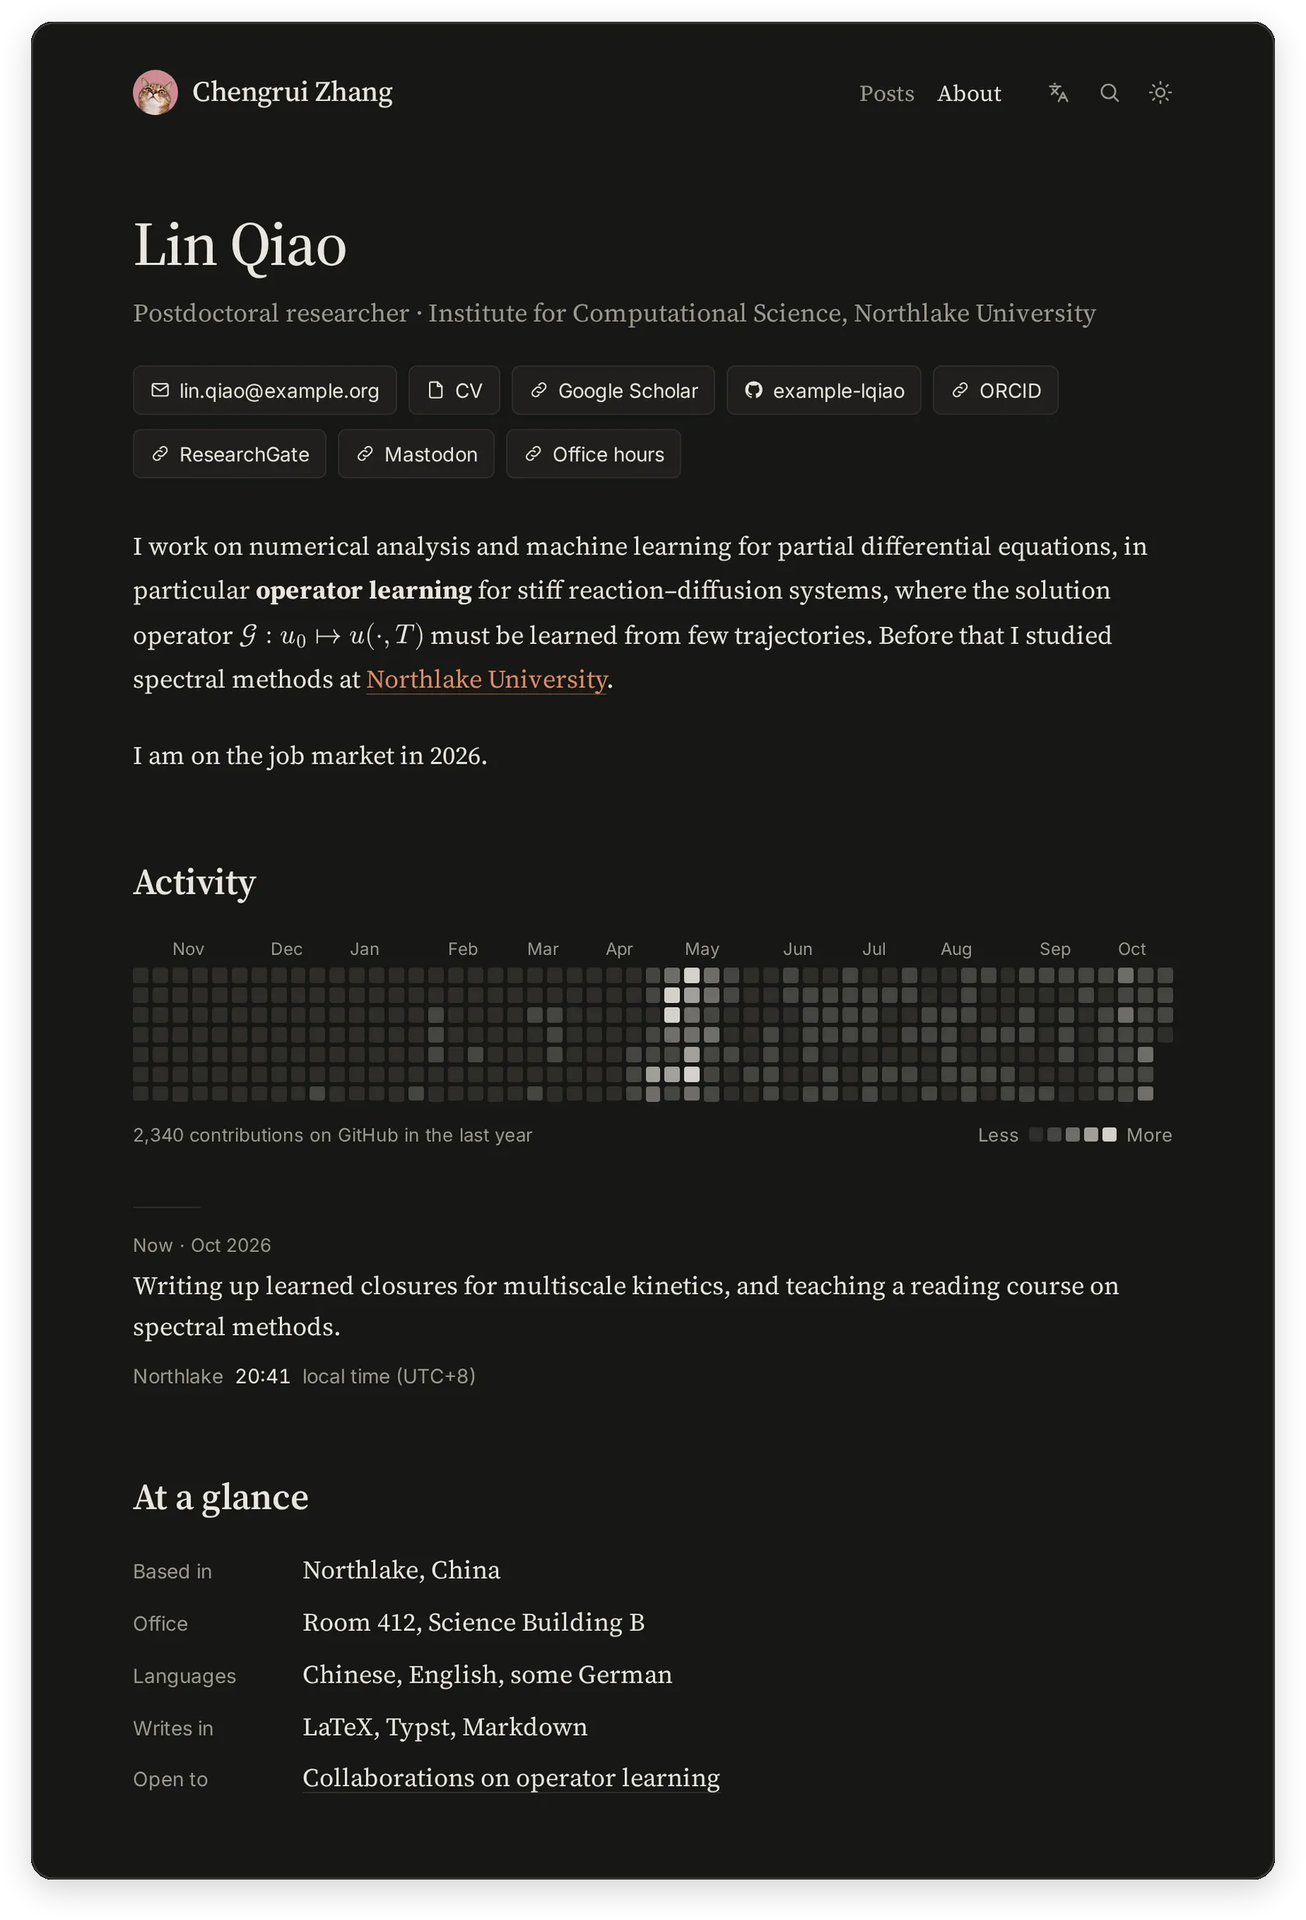
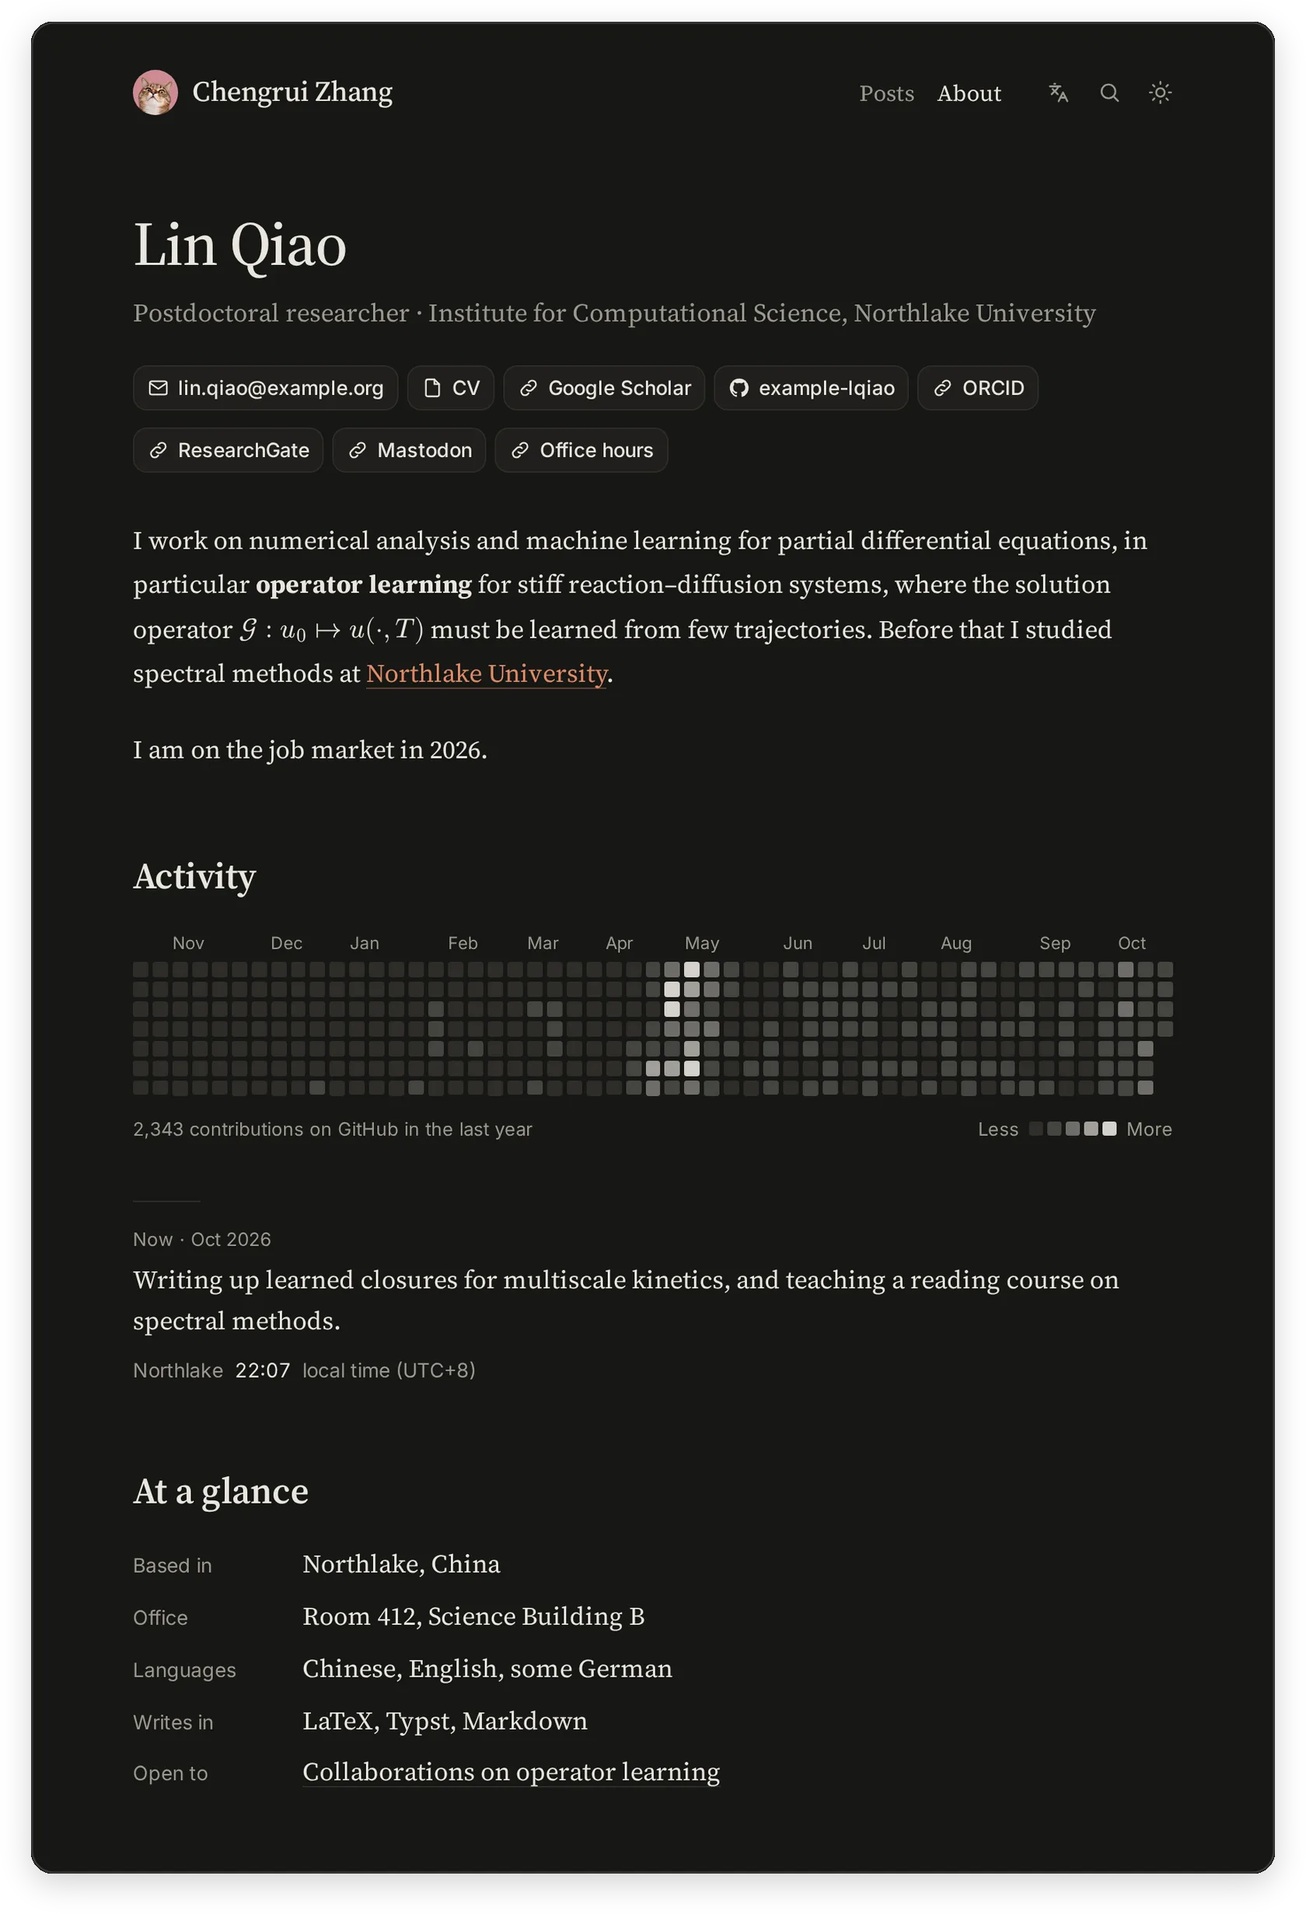
feat(about): restyle buttons, tags and projects after shadcn/ui
Contact links become secondary buttons, a stack's words badges, and
projects item panels with small buttons for the repository, its stars
(none shown for 0) and the site. A list in which no entry has a date
drops the empty date column.

diff --git a/src/styles/global.css b/src/styles/global.css
@@ -530,27 +530,29 @@ main:focus {
   color: var(--accent);
 }
 
-/* Contact links under the name: buttons on Vellum with an icon, then the
-   address, user name or label. */
+/* Contact links under the name: buttons on Vellum, as shadcn/ui's secondary
+   button, with an icon, then the address, user name or label. */
 .about-links {
   display: flex;
   flex-wrap: wrap;
-  gap: 0.625rem 0.5rem;
+  gap: 0.75rem 0.375rem;
   margin: 1.5rem 0 0;
   padding: 0;
   list-style: none;
   font-family: var(--font-sans);
   font-size: 0.875rem;
-  line-height: 1.5;
+  font-weight: 500;
+  line-height: 1.25rem;
 }
 
 .about-links a {
   position: relative;
   display: inline-flex;
   align-items: center;
-  gap: 0.45em;
-  padding: 0.4375rem 0.75rem;
-  border-radius: 6px;
+  gap: 0.375rem;
+  height: 2rem;
+  padding: 0 0.625rem;
+  border-radius: 0.625rem;
   background: var(--surface);
   color: var(--text);
   text-decoration: none;
@@ -558,11 +560,11 @@ main:focus {
   transition: background-color 0.15s, color 0.15s;
 }
 
-/* The button is 35px tall; its hit area reaches 2.75rem into the row gap. */
+/* The button is 2rem tall; its hit area reaches 2.75rem into the row gap. */
 .about-links a::before {
   content: '';
   position: absolute;
-  inset: -0.3125rem 0;
+  inset: -0.375rem 0;
 }
 
 .about-links a:hover {
@@ -570,15 +572,27 @@ main:focus {
   color: var(--text);
 }
 
+.about-links a:active,
+.item-actions a:active {
+  translate: 0 1px;
+}
+
+@media (prefers-reduced-motion: reduce) {
+  .about-links a:active,
+  .item-actions a:active {
+    translate: none;
+  }
+}
+
 /* Vellum barely shows on dark paper: a Hairline ring carries the edge. */
-:root[data-theme='dark'] .about-links a {
+:root[data-theme='dark'] :is(.about-links a, .stack-tags li, .item) {
   box-shadow: inset 0 0 0 1px var(--rule);
 }
 
 .about-links svg {
   flex: none;
-  width: 1.05em;
-  height: 1.05em;
+  width: 1rem;
+  height: 1rem;
   fill: none;
   stroke: currentColor;
   stroke-width: 1.75;
@@ -633,6 +647,15 @@ main:focus {
 
 .entry + .entry {
   margin-top: 1.125rem;
+}
+
+/* A list in which no entry has a date has no date column. */
+.entries:not(:has(.entry-when)) .entry {
+  grid-template-columns: 1fr;
+}
+
+.entries:not(:has(.entry-when)) .entry-body {
+  grid-column: 1;
 }
 
 .entry-when {
@@ -761,24 +784,155 @@ main:focus {
 .stack-tags {
   display: flex;
   flex-wrap: wrap;
-  gap: 0.125rem 1rem;
+  gap: 0.375rem;
   margin: 0;
   padding: 0;
   list-style: none;
 }
 
-.stars {
+/* A stack's words as shadcn/ui's badge: a pill on Vellum. */
+.stack-tags li {
   display: inline-flex;
   align-items: center;
-  gap: 0.2em;
-  margin-left: 0.5em;
+  height: 1.5rem;
+  padding: 0 0.625rem;
+  border-radius: 999px;
+  background: var(--surface);
+  font-family: var(--font-sans);
+  font-size: 0.8125rem;
+  font-weight: 500;
+  line-height: 1;
+  white-space: nowrap;
+}
+
+/* Projects as shadcn/ui's item: a panel of light Vellum, the title and a
+   note, then small buttons to the repository (with its stars), extra links
+   and the site. Narrow panels put the buttons under the note. */
+.items {
+  display: grid;
+  gap: 0.625rem;
+  margin: 0;
+  padding: 0;
+  list-style: none;
+}
+
+.item {
+  display: flex;
+  flex-wrap: wrap;
+  align-items: flex-start;
+  gap: 0.625rem 1rem;
+  padding: 0.875rem 1.125rem;
+  border-radius: 0.625rem;
+  background: color-mix(in srgb, var(--surface) 60%, var(--bg));
+}
+
+.item-content {
+  flex: 1 1 16rem;
+  min-width: 0;
+}
+
+.item p {
+  margin: 0;
+}
+
+.item-title {
+  font-family: var(--font-serif);
+  font-size: 1.125rem;
+  font-weight: 500;
+  line-height: 1.5;
+}
+
+/* Terracotta on the panel is 4.4:1; a little Ink in it gives 5:1. */
+.item-title a:hover {
+  color: color-mix(in srgb, var(--accent) 88%, var(--text));
+}
+
+[data-theme='dark'] .item-title a:hover {
+  color: var(--accent);
+}
+
+.item-when {
+  margin-left: 0.5rem;
+  color: var(--muted);
+  font-family: var(--font-sans);
+  font-size: 0.8125rem;
+  font-weight: 400;
   font-variant-numeric: tabular-nums;
 }
 
-.stars svg {
-  width: 0.95em;
-  height: 0.95em;
+.item-description {
+  margin-top: 0.125rem;
+  color: var(--muted);
+  font-family: var(--font-serif);
+  font-size: 0.9375rem;
+  line-height: 1.6;
+}
+
+.item-actions {
+  display: flex;
+  flex-wrap: wrap;
+  gap: 0.375rem;
+  margin: 0;
+  padding: 0;
+  list-style: none;
+  font-family: var(--font-sans);
+  font-size: 0.75rem;
+  font-weight: 500;
+  line-height: 1;
+}
+
+.item-actions a {
+  position: relative;
+  display: inline-flex;
+  align-items: center;
+  justify-content: center;
+  gap: 0.3125rem;
+  min-width: 1.75rem;
+  height: 1.75rem;
+  padding: 0 0.5rem;
+  border-radius: 0.5rem;
+  background: var(--rule);
+  color: var(--text);
+  text-decoration: none;
+  white-space: nowrap;
+  font-variant-numeric: tabular-nums;
+  transition: background-color 0.15s;
+}
+
+.item-actions .icon-only {
+  padding: 0;
+}
+
+/* 1.75rem buttons: the hit area reaches 2.75rem tall, and sideways into the
+   gaps and, for the last one, the panel's padding. */
+.item-actions a::before {
+  content: '';
+  position: absolute;
+  inset: -0.5rem -0.1875rem;
+}
+
+.item-actions li:last-child a::before {
+  right: -1rem;
+}
+
+.item-actions a:hover {
+  background: color-mix(in srgb, var(--rule), var(--text) 8%);
+}
+
+.item-actions svg {
+  flex: none;
+  width: 0.875rem;
+  height: 0.875rem;
+  fill: none;
+  stroke: currentColor;
+  stroke-width: 2;
+  stroke-linecap: round;
+  stroke-linejoin: round;
+}
+
+.item-actions svg .fill {
   fill: currentColor;
+  stroke: none;
 }
 
 /* Activity (AboutActivity.astro): a column per week, days in Ink over
@@ -1000,11 +1154,24 @@ main:focus {
     transition: none;
   }
 
-  .about-links a,
-  :root[data-theme] .about-links a {
+  :is(.about-links a, .stack-tags li, .item),
+  :root[data-theme] :is(.about-links a, .stack-tags li, .item) {
+    height: auto;
     padding: 0;
     background: none;
     box-shadow: none;
+  }
+
+  .stack-tags {
+    column-gap: 1rem;
+  }
+
+  .item {
+    break-inside: avoid;
+  }
+
+  .item-actions {
+    display: none;
   }
 
   .about-links .link-label,

diff --git a/src/i18n.ts b/src/i18n.ts
@@ -62,6 +62,7 @@ export const ui = {
     now: '近况',
     localTime: '当地时间',
     site: '主页',
+    stars: ['{n} 颗星', '{n} 颗星'],
     activityTotal: ['过去一年在 GitHub 上有 {n} 次贡献', '过去一年在 GitHub 上有 {n} 次贡献'],
     activityAsOf: '截至 {date}',
     activityDay: ['{date} · 没有贡献', '{date} · 1 次贡献', '{date} · {n} 次贡献'],
@@ -110,6 +111,7 @@ export const ui = {
     now: 'Now',
     localTime: 'local time',
     site: 'Site',
+    stars: ['{n} star', '{n} stars'],
     activityTotal: ['{n} contribution on GitHub in the last year', '{n} contributions on GitHub in the last year'],
     activityAsOf: 'as of {date}',
     activityDay: ['No contributions on {date}', '1 contribution on {date}', '{n} contributions on {date}'],

diff --git a/DESIGN.md b/DESIGN.md
@@ -198,7 +198,7 @@ Flat by default. The only elevation is the floating card, used for TOC section c
 
 ## Shapes
 
-Small, quiet radii that grow with the size of the thing: 1px TOC ticks, 2px focus rings, 4px inline code and video, 6px buttons, 8px code blocks, 14px floating cards, a circle for the avatar. Boxes are rare: tables use horizontal rules only (booktabs), notes get a short rule above them, and theorems are set by type, not by frames.
+Small, quiet radii that grow with the size of the thing: 1px TOC ticks, 2px focus rings, 4px inline code and video, 6px buttons, 8px code blocks, 14px floating cards, a circle for the avatar. The About page's buttons and project panels follow shadcn/ui instead: 8px small buttons, 10px buttons and panels, pills for a stack's words. Boxes are rare: tables use horizontal rules only (booktabs), notes get a short rule above them, and theorems are set by type, not by frames.
 
 ## Components
 
@@ -247,13 +247,13 @@ Small, quiet radii that grow with the size of the thing: 1px TOC ticks, 2px focu
 
 ### About page
 - **Head:** the name in Display, the tagline in serif Graphite, the contact links, then the bio as body text.
-- **Contact links:** under the name, a wrapping row of buttons 0.5rem apart (0.625rem between rows): sans 0.875rem Ink on Vellum, 6px radius, 0.4375rem 0.75rem padding, each a small icon (mail, GitHub, file, link) and what the link leads to: the email address, the GitHub user name, otherwise its label. Hover turns the fill Hairline; in dark mode a Hairline ring carries the edge, since Vellum barely shows on dark paper. The 35px button reaches a 2.75rem hit area into the row gap.
+- **Contact links:** under the name, a wrapping row of buttons in the manner of shadcn/ui's secondary button, 0.375rem apart (0.75rem between rows): 2rem tall, sans 0.875rem / 500 Ink on Vellum, 10px radius, 0 0.625rem padding, each a 1rem icon (mail, GitHub, file, link) and what the link leads to: the email address, the GitHub user name, otherwise its label. Hover turns the fill Hairline, and a press moves the button down 1px (not with reduced motion); in dark mode a Hairline ring carries the edge, since Vellum barely shows on dark paper. The hit area reaches 2.75rem into the row gap.
 - **Link row:** sans links in Graphite, separated by middle dots that stay with the link before them (a wrapped row never starts with a dot); terracotta on hover. 0.8125rem, under an entry. The BibTeX copy button is set as one more link and shows 已复制 / Copied for 1.5s.
-- **Sections:** an unnumbered Headline, then entries in two columns like the post list: the date in a 6rem sans column (Graphite, tabular numbers) on the title's baseline, and the entry in serif: title at 1.125rem / 500 (an ordinary link when it has one), a Graphite subtitle and a note at 0.9375rem, a link row. Below 40rem the date moves above its entry.
-- **Blocks:** the activity right under the bio, so the top of the page is always name, links, bio and activity; then the frontmatter's other sections in their order. Besides entries and papers: **now** (a short rule above, as notes have; a sans Graphite label with the date, the text in serif 1.125rem, then the place and its local time in sans 0.875rem, the time in Ink), **facts** and **stack** (a label in the 6rem date column, sans Graphite; the value in serif, a stack's words 1rem apart, no chips), **projects** (entries: title, note, then a link row with the repository and its stars), **posts** (entries; the date in the 6rem column, in Chinese as 2026-10-10, since 2026 年 10 月 10 日 would take two lines).
+- **Sections:** an unnumbered Headline, then entries in two columns like the post list: the date in a 6rem sans column (Graphite, tabular numbers) on the title's baseline, and the entry in serif: title at 1.125rem / 500 (an ordinary link when it has one), a Graphite subtitle and a note at 0.9375rem, a link row. Below 40rem the date moves above its entry. A list in which no entry has a date has no date column.
+- **Blocks:** the activity right under the bio, so the top of the page is always name, links, bio and activity; then the frontmatter's other sections in their order. Besides entries and papers: **now** (a short rule above, as notes have; a sans Graphite label with the date, the text in serif 1.125rem, then the place and its local time in sans 0.875rem, the time in Ink), **facts** and **stack** (a label in the 6rem date column, sans Graphite; the value in serif; a stack's words as badges: sans 0.8125rem / 500 pills on Vellum, 1.5rem tall, 0.375rem apart), **projects** (items, as shadcn/ui's: a panel of 60% Vellum over Paper, 10px radius, 0.875rem 1.125rem padding, 0.625rem apart; the title in serif 1.125rem / 500 with its year in sans Graphite, the note in serif 0.9375rem Graphite, as entries have; on hover the title takes 12% Ink in light mode, since plain terracotta on the panel is 4.4:1; on the right, small buttons in sans 0.75rem / 500 on Hairline, 1.75rem tall with an 8px radius: the stars and a GitHub icon for the repository (the icon alone when it has none), the extra links, an arrow for the site. They go under the note when the panel is narrow, and reach a 2.75rem tall hit area; the dark-mode ring of the contact buttons goes around panels and badges too), **posts** (entries; the date in the 6rem column, in Chinese as 2026-10-10, since 2026 年 10 月 10 日 would take two lines).
 - **Activity:** a year of GitHub contributions, a column per week (Sunday first), 3px gaps, 2px radius; GitHub's five levels as Hairline, then Ink at 22, 42, 66 and 90% over paper, never the accent. Month names (sans 0.75rem Graphite) over the week holding the 1st. Below it the total, linked to the GitHub profile, and a Less/More legend. A day's count shows in the one floating card, one line of sans 0.8125rem, above the day: after a 200ms rest on hover, on touch, or with the arrow keys once the grid has focus (↑ ↓ a day, ← → a week; Escape closes); the day gets a 1.5px terracotta outline. Days are about 10px, below the 2.75rem tap target: a touch takes the day nearest the finger and follows it as it slides sideways (the page still scrolls up and down), and the keyboard reaches every day. A calendar cached more than two days ago adds "as of" its date to the total, which is a small text link with the usual 2.75rem hit area. Narrow containers show the last 26 weeks (below 34rem) or 17 (below 17rem).
 - **Publications:** newest first, the year on the first entry of each year only. Authors in Graphite with the owner's name in bold Ink; the venue in italic, upright when it is Chinese. No cards, boxes or fills.
-- **Print:** black on white with no header, footer, copy buttons or activity; the links under the name print as their addresses, without fills; no entry is split across pages.
+- **Print:** black on white with no header, footer, copy buttons, activity or project buttons; the links under the name print as their addresses, and buttons, badges and panels without fills; no entry is split across pages.
 
 ## Do's and Don'ts
 

diff --git a/README.md b/README.md
@@ -189,7 +189,7 @@ sections:
 | `kind: facts` | `facts`: a list of `label`, `value`, optional `href` |
 | `kind: activity` | `github`: a user name, by default `site.links.github`; a year of contributions as a heatmap, always right after the bio |
 | `kind: stack` | `groups`: a list of `label` and `tags` |
-| `kind: projects` | `projects`: a list of `title` (required), `note`, `href`, `repo`, `stars`, `when`, `links`; without `stars`, a GitHub `repo`'s stars are fetched |
+| `kind: projects` | `projects`: a list of `title` (required), `note`, `href`, `repo`, `stars`, `when`, `links`; without `stars`, a GitHub `repo`'s stars are fetched; 0 stars show the GitHub icon alone |
 | `kind: posts` | `limit` (default 3): the latest posts in the page's language |
 
 Every block takes an optional `heading`. Activity blocks come right after the bio, wherever they are written; the other blocks appear in the order written, and the links stay under the name. The activity block reads the public calendar at `github.com/<user>`, and projects their stars from the GitHub API, when the site is built; the dev server reuses copies up to 6 hours old, cached in `node_modules/.cache/lemma/`. Without network a build uses the last copy (a calendar more than two days old says "as of" its date); with no copy at all, a build fails rather than drop the activity block (the dev server leaves it out with an `[about]` warning), and a project shows no stars. A day's count shows on hover, on touch (a finger slides from day to day), or with the arrow keys once the grid has focus.

diff --git a/src/about.sample/en.md b/src/about.sample/en.md
@@ -63,6 +63,10 @@ sections:
         repo: 'https://github.com/example-lqiao/tikz-pde'
         stars: 9
         when: 2022
+      - title: northlake-notes
+        note: Lecture notes for the reading course, with no year and no site of their own.
+        repo: 'https://github.com/example-lqiao/northlake-notes'
+        stars: 0
   - heading: Experience
     items:
       - when: 2025 – now
@@ -174,6 +178,12 @@ sections:
         title: Outstanding Graduate Student Award
       - title: Reviewer for several journals (no date on this item)
         note: Journal of Computational Physics, SIAM Journal on Scientific Computing.
+  # No item has a date: the list takes the full width.
+  - heading: Service
+    items:
+      - title: Organiser, Northlake numerical analysis reading group
+        note: Fortnightly, on spectral methods and operator learning.
+      - title: Mentor, undergraduate research programme
 ---
 
 I work on numerical analysis and machine learning for partial differential equations, in particular **operator learning** for stiff reaction–diffusion systems, where the solution operator $\mathcal{G}: u_0 \mapsto u(\cdot, T)$ must be learned from few trajectories. Before that I studied spectral methods at [Northlake University](https://example.org).

diff --git a/src/about.sample/zh.md b/src/about.sample/zh.md
@@ -56,6 +56,10 @@ sections:
         repo: 'https://github.com/example-lqiao/tikz-pde'
         stars: 9
         when: 2022
+      - title: northlake-notes
+        note: 读书课的讲义, 没有年份, 也没有单独的主页.
+        repo: 'https://github.com/example-lqiao/northlake-notes'
+        stars: 0
   - heading: 工作经历
     items:
       - when: 2025 – 今
@@ -124,6 +128,12 @@ sections:
       - when: 2024
         title: 优秀研究生
       - title: 多家期刊审稿人
+  # 没有一项写了日期: 列表占满整行.
+  - heading: 服务
+    items:
+      - title: 北湖数值分析读书会组织者
+        note: 每两周一次, 读谱方法和算子学习.
+      - title: 本科生科研项目导师
 ---
 
 我研究偏微分方程的数值分析与机器学习, 特别是刚性反应扩散系统的**算子学习**: 从少量轨迹学习解算子 $\mathcal{G}: u_0 \mapsto u(\cdot, T)$. 之前在[北湖大学](https://example.org)学习谱方法.

diff --git a/WRITING.md b/WRITING.md
@@ -179,7 +179,7 @@ sections:
     heading: 兴趣与工具
     groups:
       - { label: 研究, tags: [算子学习, 谱方法] }
-  - kind: projects                # 软件: 标题链接到 href, 没有 href 时链接到 repo; 不写 stars 时从 GitHub 获取
+  - kind: projects                # 软件: 标题链接到 href, 没有 href 时链接到 repo; 不写 stars 时从 GitHub 获取, 为 0 时只显示 GitHub 图标
     heading: 软件
     projects:
       - { title: sno, note: 谱神经算子., repo: 'https://github.com/…', stars: 412, when: 2025 }
